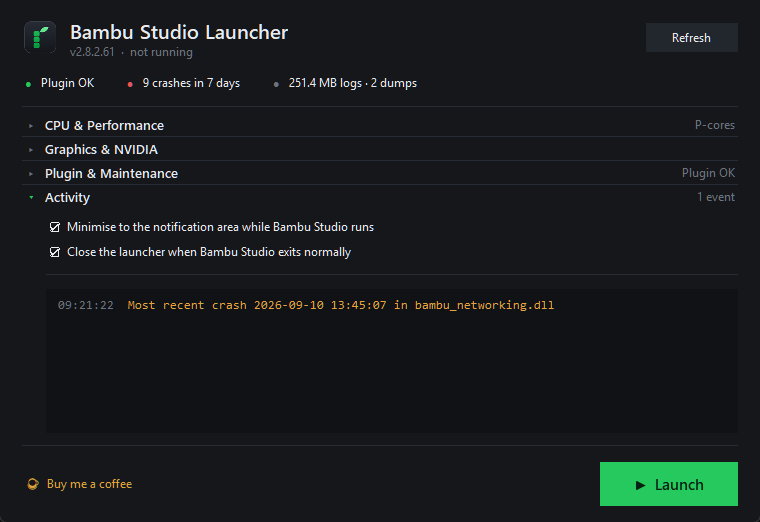
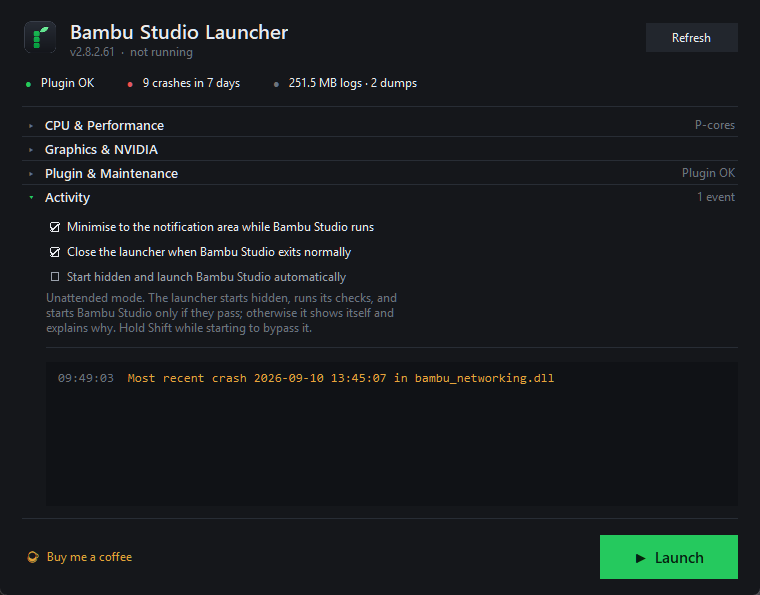
Add an opt-in unattended start
Enabled, the launcher starts hidden, runs its checks, starts Bambu Studio,
and watches from the notification area. Combined with the existing monitoring
options the whole session passes without a window ever appearing: the
launcher closes when Bambu Studio does.

It is quiet only when nothing is wrong. Any failed check reveals the window
and states the reason: a missing installation, Bambu Studio already running,
an empty CPU selection, or a missing plugin. A stale plugin is repaired first
where auto-repair is enabled, and otherwise reveals the window too.

Hiding the window at startup would otherwise make the option hard to switch
off again, so holding Shift during startup bypasses it for that run, and the
tray icon restores the window while Bambu Studio is running. If the tray is
disabled the window is shown after launching rather than left withdrawn with
no way back.

Disabled by default.

diff --git a/bambu_launcher.py b/bambu_launcher.py
@@ -49,6 +49,22 @@ DANGER = "#e5555a"
 BLUE = "#5b9df0"
 COFFEE = "#e0a33a"
 
+VK_SHIFT = 0x10
+
+
+def shift_held() -> bool:
+    """True if Shift is down right now.
+
+    Unattended start hides the window, so holding Shift during startup is the
+    escape hatch that brings the launcher up normally and lets the option be
+    switched off again.
+    """
+    try:
+        return bool(ctypes.windll.user32.GetAsyncKeyState(VK_SHIFT) & 0x8000)
+    except Exception:
+        return False
+
+
 HERE = Path(__file__).resolve().parent
 # Icons are bundled resources; in a frozen build they live in the temp
 # extraction directory, not beside the executable. See bambu_core.RESOURCE_DIR.
@@ -89,6 +105,13 @@ class Launcher(tk.Tk):
         self.refresh_status()
         self._load_graphics()
         self.protocol("WM_DELETE_WINDOW", self._on_close)
+
+        if self.cfg["auto_start"] and not shift_held():
+            self.withdraw()
+            self._hidden = True
+            self.after(700, self._auto_start)
+        elif self.cfg["auto_start"]:
+            self.log("Shift held — unattended start skipped for this run.", "warn")
 
     # ---------------------------------------------------------------- style
 
@@ -506,6 +529,16 @@ class Launcher(tk.Tk):
                     self.tray_var).pack(anchor="w", pady=(4, 0))
         self._check(body, "Close the launcher when Bambu Studio exits normally",
                     self.close_with_var).pack(anchor="w", pady=(4, 0))
+
+        self.auto_var = tk.BooleanVar(value=self.cfg["auto_start"])
+        self._check(body, "Start hidden and launch Bambu Studio automatically",
+                    self.auto_var).pack(anchor="w", pady=(4, 0))
+        self._label(body,
+                    "Unattended mode. The launcher starts hidden, runs its checks, and\n"
+                    "starts Bambu Studio only if they pass; otherwise it shows itself and\n"
+                    "explains why. Hold Shift while starting to bypass it.",
+                    style="Faint.TLabel", pady=(3, 0))
+
         self._rule(body, pady=(12, 10))
 
         self.console = tk.Text(body, height=9, bg="#101216", fg="#c3c9d2", bd=0,
@@ -747,11 +780,62 @@ class Launcher(tk.Tk):
 
         self._run_bg(go, done)
 
+    # ------------------------------------------------------ unattended start
+
+    def _auto_start(self) -> None:
+        """Verify everything, then start Bambu Studio without ever appearing.
+
+        Anything unexpected reveals the window instead. The point of the mode
+        is to be invisible when all is well, not to be silent when it is not.
+        """
+        self.log("Unattended start: running checks.")
+
+        # Read the Tk variables here; the checks themselves run off-thread.
+        use_aff = self.use_aff.get()
+        mask = self._current_mask() if use_aff else 0
+        autosync = self.autosync_var.get()
+
+        def check():
+            if not self.exe.exists():
+                return "Bambu Studio was not found at {}".format(self.exe)
+            if core.is_running():
+                return "Bambu Studio is already running"
+            if use_aff and not mask:
+                return "No CPUs are selected"
+
+            st = core.plugin_status()
+            if st["state"] == "absent":
+                return "No network plugin is installed"
+            if st["state"] == "stale":
+                if not autosync:
+                    return "The network plugin is out of date: {}".format(st["detail"])
+                ok, msg = core.sync_plugins()
+                self.log(msg, "ok" if ok else "err")
+                if not ok:
+                    return "The network plugin could not be repaired automatically"
+            return None
+
+        def done(problem):
+            if problem:
+                self.log(problem, "warn")
+                self.log("Unattended start stopped. Showing the launcher.", "warn")
+                self._restore_window()
+                self._open_section("plugin" if "plugin" in problem.lower() else "log")
+                return
+            self.log("Checks passed.", "ok")
+            self.do_launch()
+
+        self._run_bg(check, done)
+
     # ------------------------------------------------------- tray monitoring
 
     def _to_tray(self, pid: int) -> None:
         """Hide the launcher and keep watch from the notification area."""
         if not self.tray_var.get():
+            # An unattended start leaves the window withdrawn. Without a tray
+            # icon there would be no way back to it, so show it instead.
+            if self._hidden:
+                self._restore_window()
             return
 
         self._tray = bambu_tray.TrayIcon(
@@ -935,6 +1019,7 @@ class Launcher(tk.Tk):
             "auto_sync_plugin": self.autosync_var.get(),
             "minimize_to_tray": self.tray_var.get(),
             "close_with_bambu": self.close_with_var.get(),
+            "auto_start": self.auto_var.get(),
             "exe": str(self.exe),
         })
         core.save_cfg(self.cfg)

diff --git a/bambu_core.py b/bambu_core.py
@@ -81,6 +81,7 @@ DEFAULTS = {
     "keep_dumps": 2,
     "minimize_to_tray": True,
     "close_with_bambu": True,
+    "auto_start": False,
 }
 
 PRIORITY_CLASSES = {

diff --git a/README.md b/README.md
@@ -23,6 +23,8 @@ are required. All data is written within the current user profile.
 - Applies a CPU affinity mask before the target process executes any code
 - Withdraws to the notification area once Bambu Studio is running, and returns
   on its own if Bambu Studio crashes
+- Optionally starts hidden and launches Bambu Studio unattended, appearing only
+  if a check fails
 - Detects and repairs partially applied Bambu network plugin updates
 - Sets the Windows per-application GPU preference
 - Reports the NVIDIA driver setting responsible for crashes during slicing
@@ -85,6 +87,34 @@ Both behaviours are optional and are controlled from the **Activity** section:
 
 Should the notification area be unavailable, the launcher minimises to the
 taskbar and monitoring continues unchanged.
+
+### Unattended start
+
+**Start hidden and launch Bambu Studio automatically**, also under **Activity**,
+is disabled by default. Enabled, the launcher never appears when everything is
+in order: it starts hidden, runs its checks, starts Bambu Studio, and watches
+from the notification area. With the two options above also enabled, the entire
+session passes without a window — the launcher simply closes once Bambu Studio
+does.
+
+It reveals itself if any check fails, and states the reason in the activity
+log. The checks are:
+
+| Check | Failure behaviour |
+|---|---|
+| Bambu Studio is installed at the configured path | Window shown |
+| Bambu Studio is not already running | Window shown |
+| At least one CPU is selected, if **Limit CPUs** is set | Window shown |
+| A network plugin is installed | Window shown |
+| The plugin is current | Repaired if **Auto-repair** is enabled, otherwise window shown |
+
+The mode is deliberately quiet only when nothing is wrong. A stale plugin or a
+missing installation brings the window up rather than failing silently.
+
+> Hold **Shift** while starting the launcher to bypass unattended start for
+> that run. This is the way back to the window if the option is enabled and
+> Bambu Studio starts cleanly every time; the tray icon also restores it while
+> Bambu Studio is running.
 
 ### Status indicators
 
